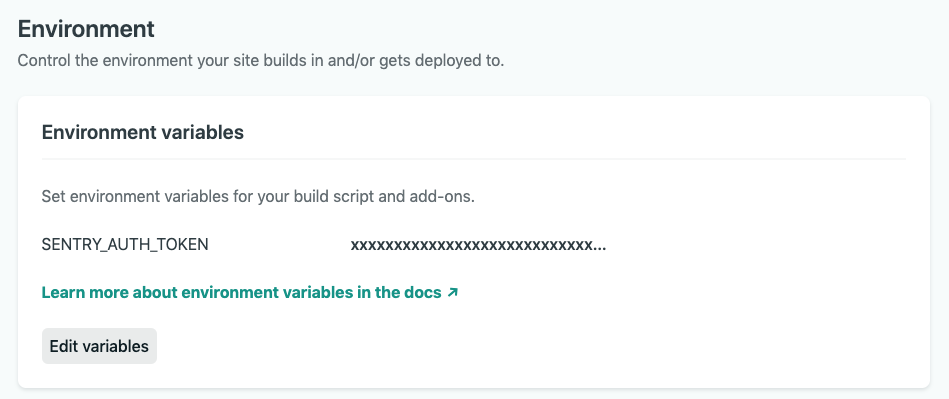
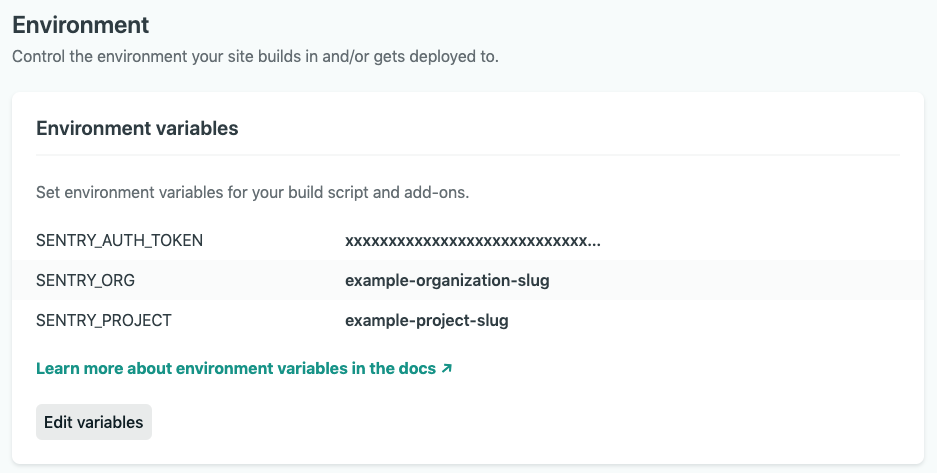
Adds sentryRelease and releasePrefix parameters. Modify README.md

diff --git a/index.js b/index.js
@@ -28,6 +28,8 @@ module.exports = {
     const sentryOrg = process.env.SENTRY_ORG || inputs.sentryOrg
     const sentryProject = process.env.SENTRY_PROJECT || inputs.sentryProject
     const sentryAuthToken = process.env.SENTRY_AUTH_TOKEN || inputs.sentryAuthToken
+    const sentryRelease = process.env.SENTRY_RELEASE || inputs.sentryRelease || process.env.COMMIT_REF
+    const releasePrefix = process.env.SENTRY_RELEASE_PREFIX || inputs.releasePrefix || ''
     const sentryEnvironment = process.env.SENTRY_ENVIRONMENT || process.env.CONTEXT
     const sourceMapPath = inputs.sourceMapPath || PUBLISH_DIR
     const sourceMapUrlPrefix = inputs.sourceMapUrlPrefix || DEFAULT_SOURCE_MAP_URL_PREFIX
@@ -45,10 +47,13 @@ module.exports = {
 
       await createSentryConfig({ sentryOrg, sentryProject, sentryAuthToken })
 
+      /* Apply release prefix */
+      const release = `${releasePrefix}${sentryRelease}`
+
       /* Notify Sentry of release being deployed on Netlify */
-      await sentryRelease({
+      await createSentryRelease({
         pluginApi,
-        sentryAuthToken,
+        release,
         sentryEnvironment,
         sourceMapPath,
         sourceMapUrlPrefix,
@@ -65,10 +70,9 @@ module.exports = {
   }
 }
 
-async function sentryRelease({ pluginApi, sentryAuthToken, sentryEnvironment, sourceMapPath, sourceMapUrlPrefix, skipSetCommits, skipSourceMaps }) {
+async function createSentryRelease({ pluginApi, release, sentryEnvironment, sourceMapPath, sourceMapUrlPrefix, skipSetCommits, skipSourceMaps }) {
   // default config file is read from ~/.sentryclirc
   const { constants, inputs, utils } = pluginApi
-  const release = process.env.COMMIT_REF
   const cli = new SentryCli()
 
   console.log('Creating new release with version: ', release)

diff --git a/README.md b/README.md
@@ -12,15 +12,24 @@ Before proceeding, you'll first want to ensure that your Sentry project is set u
 Make sure build plugins are enabled on your site to see the plugin run.
 
 ## Installation
+#### UI Installation
+To install plugins via the Netlify UI, go to your team sites list and select the Plugins tab (or follow this direct link to the [plugins directory](https://app.netlify.com/plugins)). Then find "Sentry Build Plugin" and click **Install**.
 
-To install, add the following lines to your `netlify.toml` file:
+UI installation is the recommended way to install this Build Plugin unless you need advanced configuration.
+
+#### File-based Installation
+Alternatively, to install with file-based installation, add the following lines to your `netlify.toml` file:
 
 ```toml
 [[plugins]]
   package = "@sentry/netlify-build-plugin"
+
+  [plugins.inputs]
+    sentryOrg = ""
+    sentryProject = ""
 ```
 
-Note: The `[[plugins]]` line is required for each plugin, even if you have other plugins in your `netlify.toml` file already.
+Note: The `[[plugins]]` line is required for each plugin installed via file-based installation, even if you have other plugins in your `netlify.toml` file already.
 
 ### Create a Sentry Internal Integration
 For Netlify to communicate securely with Sentry, you'll need to create a new internal integration. In Sentry, navigate to: *Settings > Developer Settings > New Internal Integration*.
@@ -33,25 +42,30 @@ Click “Save” at the bottom of the page and grab your token, which you’ll n
 
 
 ### Set Environment Variables in Netlify
-Save the internal integration token as a [site environment variable](https://docs.netlify.com/configure-builds/environment-variables/):
+Save the internal integration token and any other environment variables as [site environment variables](https://docs.netlify.com/configure-builds/environment-variables/):
 1. In Netlify, go to your site's settings.
 2. Click on "Build & deploy".
-3. Add a new environment variable and enter `SENTRY_AUTH_TOKEN` as the name and your internal integration token as the value.
+3. Click “Edit variables” and add `SENTRY_AUTH_TOKEN`, `SENTRY_ORG`, and `SENTRY_PROJECT` with their respective values. For more configuration options see the [environment variables](#environment-variables) section below.
+4. Click "Save".
 
 ![View of internal integration permissions.](images/netlify-environment-variables.png)
 
-### Configuration
-Configure the plugin with your Sentry settings:
-```toml
-[[plugins]]
-  package = "@sentry/netlify-build-plugin"
-
-  [plugins.inputs]
-    sentryOrg = ""
-    sentryProject = ""
-```
-
 For more information about the parameters below, please see the [Sentry release management docs](https://docs.sentry.io/cli/releases/).
+
+### Ensure Your SDK is Configured
+To link errors with releases, you must include a release ID (a.k.a version) where you configure your client SDK. For more information, read our documentation on [configuring your SDK for releases](https://docs.sentry.io/workflow/releases/?platform=node#configure-sdk).
+
+#### Environment Variables
+
+You can use [site environment variables](https://docs.netlify.com/configure-builds/environment-variables/) to configure these values:
+| name | description | default |
+|------|-------------|---------|
+| `SENTRY_AUTH_TOKEN` | Authentication token for Sentry. | - |
+| `SENTRY_ORG` | The slug of the organization name in Sentry. | - |
+| `SENTRY_PROJECT` | The slug of the project name in Sentry. | - |
+| `SENTRY_RELEASE` | The release ID (a.k.a version). | [COMMIT_REF](https://docs.netlify.com/configure-builds/environment-variables/#git-metadata) |
+| `SENTRY_ENVIRONMENT` | The name of the environment being deployed to. | Netlify [deploy context](https://docs.netlify.com/site-deploys/overview/#deploy-contexts) |
+| `SENTRY_RELEASE_PREFIX` | Set this to prefix the release name with the value. | - |
 
 
 #### Plugin Inputs
@@ -60,17 +74,9 @@ For more information about the parameters below, please see the [Sentry release 
 | `sentryOrg` | The slug of the organization name in Sentry. | - |
 | `sentryProject` | The slug of the project name in Sentry. | - |
 | `sentryAuthToken` | Authentication token for Sentry. We recommend this be set as an environment variable (see below). | - |
+| `sentryRelease` | The release ID (a.k.a version). | [COMMIT_REF](https://docs.netlify.com/configure-builds/environment-variables/#git-metadata) |
 | `sourceMapPath` | Folder in which to scan for source maps to upload. | Netlify publish directory |
 | `sourceMapUrlPrefix` | Prefix for the location of source maps. | `"~/"` |
 | `skipSetCommits` | Set this to true if you want to disable commit tracking. | `false` |
 | `skipSourceMaps` | Set this to true if you want to disable sending source maps to Sentry. | `false` |
-
-#### Environment Variables
-
-You can also use [site environment variables](https://docs.netlify.com/configure-builds/environment-variables/) to configure these values:
-| name | description | default |
-|------|-------------|---------|
-| `SENTRY_AUTH_TOKEN` | Authentication token for Sentry. | - |
-| `SENTRY_ORG` | The slug of the organization name in Sentry. | - |
-| `SENTRY_PROJECT` | The slug of the project name in Sentry. | - |
-| `SENTRY_ENVIRONMENT` | The name of the environment being deployed to. | Netlify [deploy context](https://docs.netlify.com/site-deploys/overview/#deploy-contexts) |
+| `releasePrefix` | Set this to prefix the release name with the value. | - |
